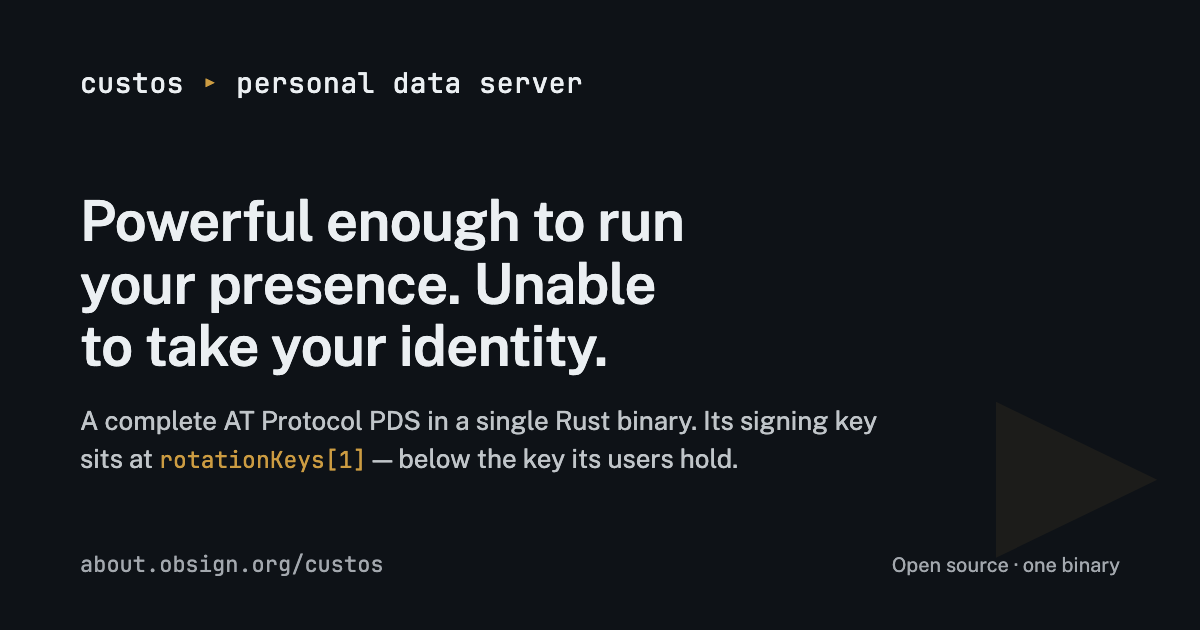
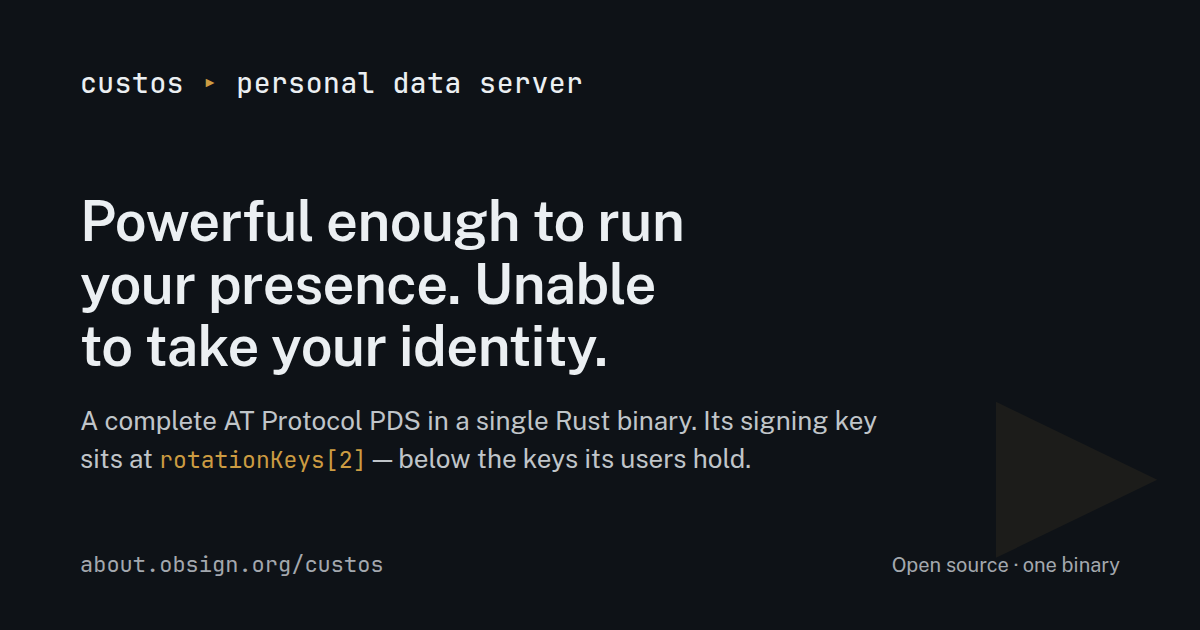
Update marketing + docs copy for three rotation keys, blob backup, did:web
The marketing site still described the two-key custody model. Since
ADR-0027 a new identity carries three rotation keys — device, recovery
(derived from the 2-of-3 backup shares), PDS — so the key-facts table,
the Custos hero/custody-seam rows, and the Custos OG card (source +
regenerated PNG) now show the [device, recovery, server] ordering.

The backup copy also said "your key is split 2-of-3", which was never
quite right and is now wrong in mechanism: the split is over a recovery
secret created on the device (the Secure Enclave key cannot leave the
enclave, and the server only ever sees its escrow share). Reworded the
backup card and plain answers accordingly.

Per the grandma-approved bar, the "your identity is a did:plc" claims
are gone from the marketing pages (did:web is also a supported account
method since ADR-0022, and naming one method there was both inaccurate
and too in-the-weeds); the docs site now carries the detail instead: an
"Advanced: anchor to a domain you control (did:web)" section in Getting
started, plus method-scoping notes on the recovery and backup pages
(PLC monitoring/72-hour override and the share scheme are did:plc-only).

New coverage for blob durability: the Custos "backup" row and a new
Obsign "What about my posts and photos?" answer mention the bucket
mirror (implemented server-side), with the wallet-side iCloud copy
described as coming, not shipped. The operator backups doc gains a
"Blobs: the bucket mirror" section alongside Litestream.
[…]

diff --git a/sites/marketing/index.html b/sites/marketing/index.html
@@ -109,7 +109,7 @@
           <h2>Owned, not rented.</h2>
           <div class="section-intro">
             <p>
-              On the AT&nbsp;Protocol, your identity is a <code>did:plc</code>, controlled
+              On the AT&nbsp;Protocol, your identity is a public record, controlled
               by whoever holds its <em>rotation keys</em>. On most hosts today,
               that&rsquo;s the server. Your ability to leave, to recover from an attack, or
               simply to stay yourself is a policy promise: real only for as long as your
@@ -126,11 +126,13 @@
               <dt>rotationKeys[0]</dt>
               <dd>your device: Secure&nbsp;Enclave, non-extractable</dd>
               <dt>rotationKeys[1]</dt>
+              <dd>your recovery key: rebuilt from your backup shares, never seen by the server</dd>
+              <dt>rotationKeys[2]</dt>
               <dd>your server: signs posts, can never outrank you</dd>
               <dt>recovery window</dt>
-              <dd>72 hours, during which your key overrides any other</dd>
+              <dd>72 hours, during which your keys override the server&rsquo;s</dd>
               <dt>backup</dt>
-              <dd>your key, split 2-of-3 (no single custodian)</dd>
+              <dd>your recovery secret, split 2-of-3 (no single custodian)</dd>
             </dl>
           </div>
         </div>
@@ -197,9 +199,10 @@
               </span>
               <h3>Backup without a custodian</h3>
               <p>
-                At setup, your key is split into three shares: iCloud Keychain, your
-                server&rsquo;s escrow, and a place you choose. Any two recover it; no
-                single share (and no single company) can.
+                At setup, your device creates a recovery secret and splits it into three
+                shares: iCloud Keychain, your server&rsquo;s escrow, and a place you
+                choose. Any two bring your identity back; no single share (and no single
+                company) can.
               </p>
             </div>
           </div>
@@ -253,9 +256,10 @@
             <div>
               <h3>What if I lose my phone?</h3>
               <p>
-                Your key is split 2-of-3 at setup: one share in iCloud Keychain, one held
-                in escrow by your server, one wherever you choose. Losing the phone loses
-                one share; any two remaining shares recover the key.
+                Your recovery secret is split 2-of-3 at setup: one share in iCloud
+                Keychain, one held in escrow by your server, one wherever you choose.
+                Losing the phone loses one share; any two remaining shares bring your
+                identity back on a new device.
               </p>
             </div>
             <div>
@@ -268,9 +272,18 @@
               </p>
             </div>
             <div>
+              <h3>What about my posts and photos?</h3>
+              <p>
+                Your server backs up its database and your photos off-box, continuously.
+                And an option to keep your own copy in iCloud is coming, so your whole
+                presence stays portable even if every server you&rsquo;ve ever used
+                disappears.
+              </p>
+            </div>
+            <div>
               <h3>What if this project disappears?</h3>
               <p>
-                Your identity outlives it. It&rsquo;s a <code>did:plc</code> in the public
+                Your identity outlives it. It lives in the network&rsquo;s public
                 directory, your keys are on your device, and your server remains a
                 standard rotation key, so ordinary AT&nbsp;Protocol tooling can still
                 operate on your identity. All of this is open source.

diff --git a/sites/marketing/custos/index.html b/sites/marketing/custos/index.html
@@ -55,9 +55,9 @@
           <p class="lede">
             Custos is a complete AT&nbsp;Protocol PDS in a single Rust binary: it hosts
             repositories, signs commits, serves the firehose, and federates with the
-            network. Its signing key sits at <code>rotationKeys[1]</code>, below the key
-            your users hold. A Custos instance can act <em>for</em> its users; it cannot
-            act <em>against</em> them.
+            network. Its signing key sits at <code>rotationKeys[2]</code>, below the
+            device and recovery keys your users hold. A Custos instance can act
+            <em>for</em> its users; it cannot act <em>against</em> them.
           </p>
           <div class="hero-actions">
             <a class="btn btn-primary" href="#run">Run it</a>
@@ -85,7 +85,9 @@
             <div>
               <dt>backup</dt>
               <dd>
-                Litestream streams the database off-box continuously: point-in-time
+                Litestream streams the database off-box continuously, and a bucket
+                mirror does the same for blobs — media is re-uploaded to S3-compatible
+                storage on a sweep and restored to the volume on boot. Point-in-time
                 recovery without a backup cron.
               </dd>
             </div>
@@ -150,9 +152,11 @@
             <div>
               <dt>custody seam</dt>
               <dd>
-                Custos holds <code>rotationKeys[1]</code> and signs repo commits. Your
-                users&rsquo; wallets hold <code>rotationKeys[0]</code> and sign identity
-                operations. The server works; the user rules.
+                Custos holds <code>rotationKeys[2]</code> and signs repo commits. Your
+                users&rsquo; wallets hold <code>rotationKeys[0]</code>, and their backup
+                shares rebuild the recovery key at <code>rotationKeys[1]</code> — the
+                server escrows one share and never sees the rest. The server works; the
+                user rules.
               </dd>
             </div>
           </dl>

diff --git a/sites/marketing/assets/og/custos.src.html b/sites/marketing/assets/og/custos.src.html
@@ -66,7 +66,7 @@
       <h1>Powerful enough to run your presence. Unable to take your identity.</h1>
       <p class="sub">
         A complete AT&nbsp;Protocol PDS in a single Rust binary. Its signing key
-        sits at <span class="mono">rotationKeys[1]</span> &mdash; below the key
+        sits at <span class="mono">rotationKeys[2]</span> &mdash; below the keys
         its users hold.
       </p>
     </div>

diff --git a/sites/docs/src/content/docs/operator/backups.md b/sites/docs/src/content/docs/operator/backups.md
@@ -1,11 +1,13 @@
 ---
 title: Backups & restore
-description: Continuous SQLite backups with Litestream, and how to restore.
+description: Continuous SQLite backups with Litestream, blob replication with the bucket mirror, and how to restore.
 ---
 
-The PDS keeps everything in one SQLite database, so backing it up **is** your
-disaster-recovery plan. Custos uses [Litestream](https://litestream.io/) to stream
-that database to object storage continuously and restore it on boot.
+The PDS keeps its records in one SQLite database and its blobs (media files) on
+the volume next to it, so backing those two things up **is** your
+disaster-recovery plan. Custos uses [Litestream](https://litestream.io/) to
+stream the database to object storage continuously and restore it on boot, and
+its own **blob mirror** to do the same for blob files.
 
 ## How it works
 
@@ -43,6 +45,36 @@ This backup protects the *ciphertext*. It does **not** protect the
 separately, in a different store than this replica. If the key is ever lost
 or compromised, follow the [master-key disaster runbook](/operator/master-key-runbook/)
 instead of restoring from here alone.
+:::
+
+## Blobs: the bucket mirror
+
+Litestream replicates only the SQLite database. Uploaded blobs — avatars,
+post images, video — live as files on the deployment volume, where losing the
+volume would destroy every account's media. The blob mirror is the Litestream
+analogue for those files: a periodic sweep uploads every stored blob to an
+S3-compatible bucket, and on boot any file missing from the volume is restored
+from the bucket **before the server takes traffic**.
+
+Turn it on by setting a bucket (unset means disabled):
+
+| Variable | Role |
+| --- | --- |
+| `EZPDS_BLOB_MIRROR_BUCKET` | Bucket the mirror writes to. Setting this is what switches the mirror on. |
+| `EZPDS_BLOB_MIRROR_ENDPOINT` | S3-compatible endpoint URL. |
+| `EZPDS_BLOB_MIRROR_ACCESS_KEY_ID` | Access key for the bucket. |
+| `EZPDS_BLOB_MIRROR_SECRET_ACCESS_KEY` | Secret key for the bucket. |
+
+The sweep also propagates deletions: once no account references a blob, its
+object is removed from the bucket, so the mirror tracks the live blobstore
+rather than growing forever. The full knob list (region, path-style addressing,
+key prefix, sweep interval) is in the
+[configuration reference](/operator/reference/config/).
+
+:::note[Same discipline as the database replica]
+Blob bytes are content-addressed but they are still your users' data — keep the
+mirror bucket's credentials in your secret manager, exactly like the Litestream
+bucket's.
 :::
 
 ## Restoring

diff --git a/sites/docs/src/content/docs/user/getting-started.md b/sites/docs/src/content/docs/user/getting-started.md
@@ -48,6 +48,31 @@ If you already have an ATProtocol identity, you can move it to a server you
 control without losing your handle or history. That flow has its own page:
 [Migrating your identity](/user/migration/).
 
+## Advanced: anchor to a domain you control (did:web)
+
+By default, a new identity is a **did:plc** — an entry in ATProtocol's public
+PLC directory. That is the right choice for almost everyone, and everything
+else in these docs assumes it.
+
+If you already run a domain, Obsign also offers **did:web**: your identity
+becomes `did:web:your-domain.example`, anchored to a DID document served from
+that domain rather than to the PLC directory. The wallet walks you through
+composing the document, proves you control the domain by requiring the exact
+reviewed document to be live at its authoritative HTTPS URL before the server
+accepts it, and can either let your server host the document for you or leave
+you hosting it yourself.
+
+The trade is real, which is why it sits behind an "Advanced" link:
+
+- **You gain** an identity rooted in something you already own. No directory,
+  and no server, sits between you and it.
+- **You take on** the domain as part of your security perimeter. A did:web
+  identity has no PLC rotation keys, so the
+  [tamper monitoring and 72-hour override](/user/recovery/) and the
+  [2-of-3 share backup](/user/backup/) do not apply — recovery is controlling
+  the domain (plus your device key), and losing the domain means losing the
+  identity.
+
 ## The custody model, briefly
 
 Your identity is anchored by rotation keys, in order of precedence:

diff --git a/sites/docs/src/content/docs/user/recovery.md b/sites/docs/src/content/docs/user/recovery.md
@@ -35,9 +35,9 @@ dot alone.
 
 ## The 72-hour override
 
-ATProtocol gives the higher-precedence rotation key a **72-hour window** to
-contest a change. Because your key is `rotationKeys[0]` (see
-[Getting started](/user/getting-started/)), you hold that power:
+ATProtocol's PLC directory gives the higher-precedence rotation key a
+**72-hour window** to contest a change. Because your key is `rotationKeys[0]`
+(see [Getting started](/user/getting-started/)), you hold that power:
 
 1. Obsign detects a contested change and starts the countdown.
 2. You review what changed, in plain language.
@@ -54,4 +54,11 @@ The countdown is shown as a time remaining, not just a color. An override is
 signed by the identity key already on your device — no share to reassemble and no
 scramble in the moment. (Your [Shamir backup](/user/backup/) is the separate
 safety net for getting a key back onto a _new_ device.)
+:::
+
+:::note[This page describes did:plc identities]
+Monitoring and the 72-hour override are properties of the PLC directory, so they
+apply to **did:plc** identities — the default. A
+[did:web identity](/user/getting-started/#advanced-anchor-to-a-domain-you-control-didweb)
+is anchored to your domain instead: defending it means defending the domain.
 :::

diff --git a/sites/docs/src/content/docs/user/backup.md b/sites/docs/src/content/docs/user/backup.md
@@ -79,3 +79,9 @@ Your other safety net is unchanged: because your identity key sits on your
 device as the highest-priority key, you can
 [override an unexpected change](/user/recovery/) within a 72-hour window without
 reassembling any shares.
+
+:::note[This page describes did:plc identities]
+The 2-of-3 split backs the recovery key of a **did:plc** identity — the default.
+A [did:web identity](/user/getting-started/#advanced-anchor-to-a-domain-you-control-didweb)
+carries no shares and no escrow; its recovery model is control of its domain.
+:::

diff --git a/sites/marketing/README.md b/sites/marketing/README.md
@@ -10,7 +10,8 @@ credible exit as a property of the keys.
 - `index.html` — the Obsign story, user-facing, with a Brass Console band
   introducing Custos.
 - `custos/index.html` — the operator story: what Custos runs, how to run it,
-  and the custody seam (`rotationKeys[0]` user / `rotationKeys[1]` server).
+  and the custody seam (`rotationKeys[0]` device / `rotationKeys[1]` recovery,
+  both user-held / `rotationKeys[2]` server).
 
 ## Social cards (Open Graph)
 